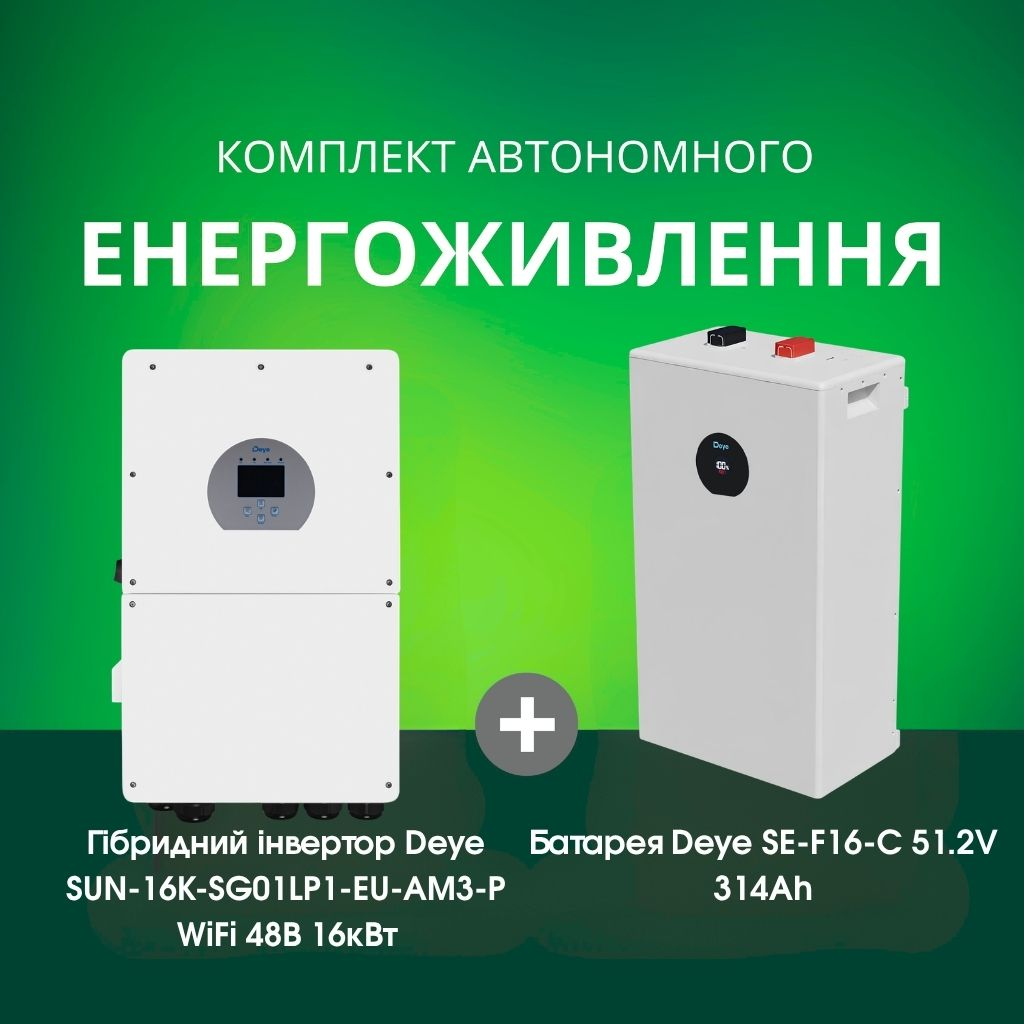
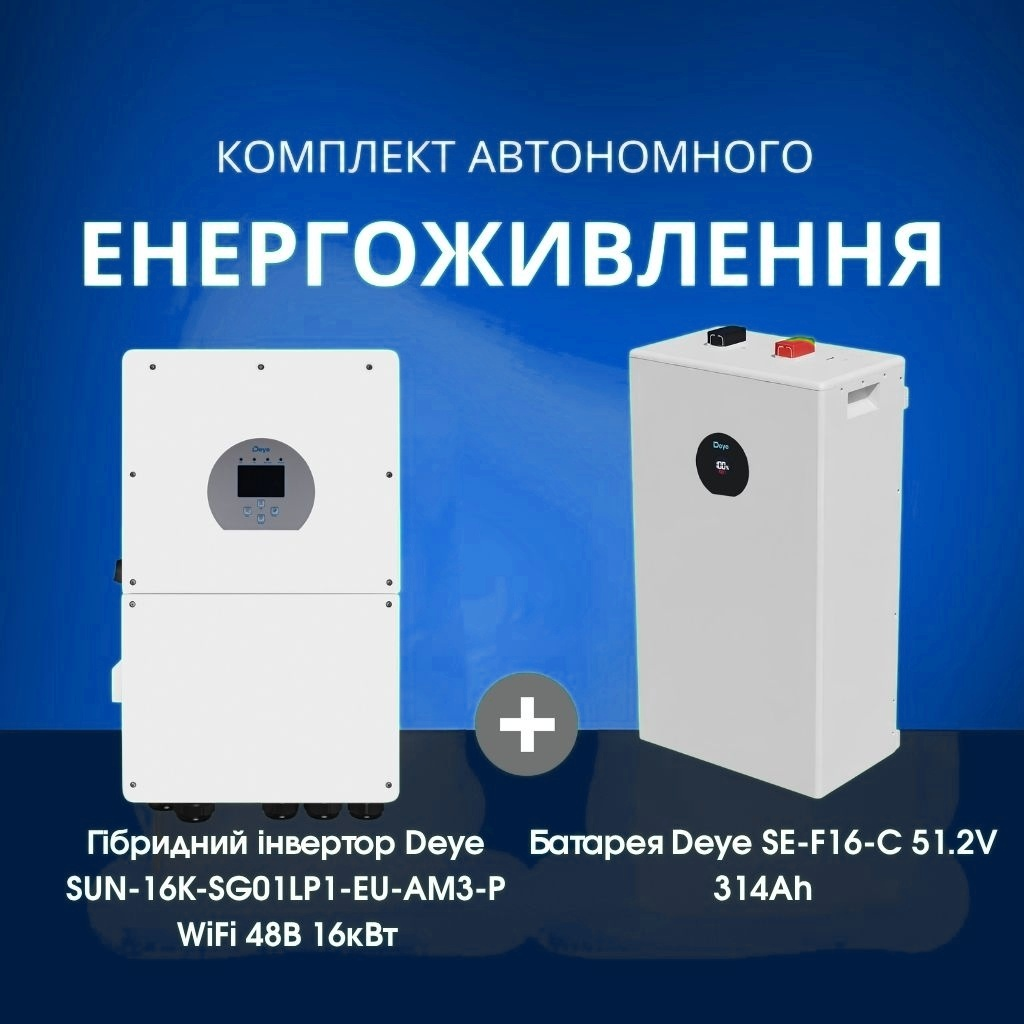
feat: brand-colored backgrounds for mono-brand kit combo photos
Deye -> blue, Felicity -> orange, Must -> red. Recolors the green
studio background (HSV hue swap, green range -> flat brand hue) on the
14 kit combo images where the inverter and battery share a brand —
product photos, text, and other accent colors (e.g. a battery's own
screen glow) are untouched. Added scripts/recolor_monobrand_kits.py so
this can be re-run when new mono-brand kits show up after a feed
refresh; it's a no-op on images that are already recolored.

diff --git a/scripts/recolor_monobrand_kits.py b/scripts/recolor_monobrand_kits.py
@@ -1,0 +1,106 @@
+#!/usr/bin/env python3
+"""Recolor the green studio background on "Комплекти" (kit) combo photos to
+a brand color, for kits where the inverter and battery are the same brand
+(Deye -> blue, Felicity -> orange, Must -> red) - per product owner's request.
+
+Only touches the green background/floor via an HSV hue swap (green hue range
+-> flat target hue), leaving the product photos, text, and any non-green
+accent colors (e.g. a battery's own LCD glow) alone. Naturally idempotent:
+re-running it on an already-recolored image is a no-op, since the mask only
+matches green hues, not the brand colors this script produces.
+
+Usage:
+    python3 scripts/recolor_monobrand_kits.py            # recolor all matches
+    python3 scripts/recolor_monobrand_kits.py --dry-run   # just list matches
+"""
+import argparse
+import glob
+import json
+import os
+import re
+
+from PIL import Image, ImageChops, ImageFilter
+
+ROOT = os.path.dirname(os.path.dirname(os.path.abspath(__file__)))
+PRODUCTS_JSON = os.path.join(ROOT, "products.json")
+KOMP_DIR = os.path.join(ROOT, "assets", "images", "komp")
+
+KNOWN_BRANDS = ["DAH Solar", "Deye", "Dyness", "Felicity", "Must"]
+
+# Target hue in degrees for each brand's background, per product owner.
+BRAND_HUE = {
+    "Deye": 215,      # blue
+    "Felicity": 28,   # orange
+    "Must": 356,      # red
+}
+
+# Source green hue range (PIL 0-255 scale, ~70-169 degrees) and minimum
+# saturation to count as "background", tuned against the actual studio
+# gradient - see git history for how these were picked.
+HUE_LOW, HUE_HIGH = 50, 120
+SAT_MIN = 31
+
+
+def extract_brand(text):
+    for b in KNOWN_BRANDS:
+        if re.search(r"\b" + re.escape(b) + r"\b", text, re.I):
+            return b
+    return None
+
+
+def kit_brands(title):
+    body = re.sub(r"^Комплект автономного енергоживлення:\s*", "", title or "", flags=re.I)
+    parts = re.split(r"\s*\+\s*", body)
+    if len(parts) != 2:
+        return (None, None)
+    return (extract_brand(parts[0]), extract_brand(parts[1]))
+
+
+def recolor_green_bg(path, target_deg):
+    im = Image.open(path).convert("RGB")
+    H, S, V = im.convert("HSV").split()
+    target = round(target_deg / 360 * 255) % 256
+    H_target = Image.new("L", im.size, target)
+    mask_hue = H.point(lambda p: 255 if HUE_LOW <= p <= HUE_HIGH else 0)
+    mask_sat = S.point(lambda p: 255 if p >= SAT_MIN else 0)
+    mask = ImageChops.multiply(mask_hue, mask_sat).filter(ImageFilter.GaussianBlur(2))
+    H_final = Image.composite(H_target, H, mask)
+    out = Image.merge("HSV", (H_final, S, V)).convert("RGB")
+    kwargs = {"quality": 95} if path.lower().endswith((".jpg", ".jpeg")) else {}
+    out.save(path, **kwargs)
+
+
+def main():
+    parser = argparse.ArgumentParser()
+    parser.add_argument("--dry-run", action="store_true")
+    args = parser.parse_args()
+
+    products = json.load(open(PRODUCTS_JSON, encoding="utf-8"))
+    changed = 0
+    for p in products:
+        title = p.get("title") or ""
+        if not title.startswith("Комплект автономного енергоживлення"):
+            continue
+        inv_brand, bat_brand = kit_brands(title)
+        if not inv_brand or inv_brand != bat_brand:
+            continue
+        hue = BRAND_HUE.get(inv_brand)
+        if hue is None:
+            continue
+
+        matches = glob.glob(os.path.join(KOMP_DIR, f"{p['id']}.*"))
+        if not matches:
+            print(f"  no image for {p['id']} ({inv_brand}) - skipped")
+            continue
+
+        path = matches[0]
+        print(f"{'[dry-run] ' if args.dry_run else ''}{p['id']}  {inv_brand} -> hue {hue}  {os.path.basename(path)}")
+        if not args.dry_run:
+            recolor_green_bg(path, hue)
+        changed += 1
+
+    print(f"\n{changed} monobrand kit image(s) {'would be ' if args.dry_run else ''}recolored")
+
+
+if __name__ == "__main__":
+    main()
